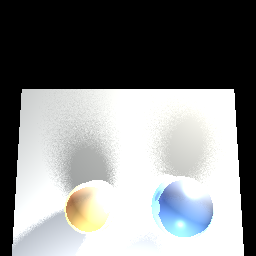
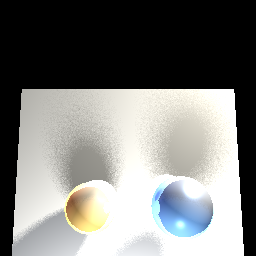
Added c++ materal shader logic to main func

diff --git a/cpp_src/main.cpp b/cpp_src/main.cpp
@@ -111,8 +111,10 @@ int main()
 
 	// Create shader programs
 	Shader litShaderProgram("lit.vert", "lit.frag");
-	Shader modelProgram("material_lit.vert", "material_lit.frag");
+	Shader materialProgram("material_lit.vert", "material_lit.frag");
 	Shader unlitShaderProgram("unlit.vert", "unlit.frag");
+
+	Material roughtMat(Color("#2cc20eff").toVec3(), 0.0f, 0.52f, 0.0f, 0.0f, 0.0f, Color("#000").toVec3());
 
 	std::vector<Vertex> floorVerts(vertices, vertices + sizeof(vertices) / sizeof(vertices[0]));
 	std::vector<GLuint> floorInd(indices, indices + sizeof(indices) / sizeof(indices[0]));
@@ -170,8 +172,12 @@ int main()
 	litShaderProgram.setFloat("u_specularStrength", 1.0f);
 	litShaderProgram.setFloat("u_ambient", 0.05f);
 
-	modelProgram.Activate();
-	camera.SetModelMatrixUniform(modelProgram, "u_camMatrix");
+	materialProgram.Activate();
+	CreateLightsUBO();
+	CreateMaterialUBO();
+	UpdateLightsUBO(std::vector<Light>{ Light{lightPos, lightColor.toVec3(), 1.0f} });
+	UpdateMaterialUBO(roughtMat);
+	camera.SetModelMatrixUniform(materialProgram, "u_camMatrix");
 	litShaderProgram.setVec3("u_viewDir", camera.Forward);
 
 	unlitShaderProgram.Activate();
@@ -190,16 +196,18 @@ int main()
 		camera.SetModelMatrixUniform(litShaderProgram, "u_camMatrix");
 		litShaderProgram.setVec3("u_viewPos", camera.Position);
 		
-		modelProgram.Activate();
-		camera.SetModelMatrixUniform(modelProgram, "u_camMatrix");
+		materialProgram.Activate();
+		UpdateLightsUBO(std::vector<Light>{ Light{lightPos, lightColor.toVec3(), 1.0f} });
+		UpdateMaterialUBO(roughtMat);
+		camera.SetModelMatrixUniform(materialProgram, "u_camMatrix");
 		litShaderProgram.setVec3("u_viewDir", camera.Forward);
 
 		unlitShaderProgram.Activate();
 		camera.SetModelMatrixUniform(unlitShaderProgram, "u_camMatrix");
-		
+
 		// Draw objects
 		floorMesh.Draw(litShaderProgram, camera);
-		bunny->Draw(litShaderProgram, camera);
+		bunny->Draw(materialProgram, camera);
 		sword->Draw(litShaderProgram, camera);
 		lightMesh.Draw(unlitShaderProgram, camera);
 	}));
@@ -508,7 +516,7 @@ int main()
 		
 	// Clean up and exit
 	litShaderProgram.Delete();
-	modelProgram.Delete();
+	materialProgram.Delete();
 	unlitShaderProgram.Delete();
 	
 	floorMesh.CleanUp();

diff --git a/cpp_src/include/Material.h b/cpp_src/include/Material.h
@@ -28,6 +28,16 @@ struct Material: public IVirtualObject {
     glm::vec3 emissive = glm::vec3(0.0f);
     float     padding3 = 0.0f;
 
+    Material(const glm::vec3& albedoColor, float metal, float rough, float useAlbedo,
+             float useNormal, float useMR, const glm::vec3& emissiveColor)
+        : albedo(albedoColor), metallic(metal), roughness(rough),
+          useAlbedoMap(useAlbedo), useNormalMap(useNormal), useMRMap(useMR),
+          emissive(emissiveColor) {}
+
     json ToJSON() const override;
     void FromJSON(const json& j) override;
+    void CleanUp() override;
 };
+
+void CreateMaterialUBO();
+void UpdateMaterialUBO(const Material& mat);

diff --git a/cpp_src/include/Light.h b/cpp_src/include/Light.h
@@ -29,9 +29,12 @@ struct Light: public IVirtualObject {
     int       type; // 0=point,1=dir,2=spot
 
     Light() : position(0.0f), coneAngles(.01f), color(1.0f), intensity(1.0f), type(0) {}
+    Light(const glm::vec3& pos, const glm::vec3& col, float inten, int t = 0)
+        : position(pos), radius(1.0f), coneAngles(.01f), color(col), intensity(inten), direction(0.0f, -1.0f, 0.0f), type(t) {}
 
     json ToJSON() const override;
     void FromJSON(const json& j) override;
+    void CleanUp() override;
 };
 
 void CreateLightsUBO();

diff --git a/cpp_src/src/Material.cpp b/cpp_src/src/Material.cpp
@@ -46,3 +46,9 @@ void UpdateMaterialUBO(const Material& mat)
     glBufferSubData(GL_UNIFORM_BUFFER, 0, sizeof(GPUMaterial), &data);
     glBindBuffer(GL_UNIFORM_BUFFER, 0);
 }
+
+// Nothing to free per-Material right now; satisfies the linker
+void Material::CleanUp()
+{
+    // No per-instance GL resources allocated here
+}

diff --git a/cpp_src/src/Light.cpp b/cpp_src/src/Light.cpp
@@ -64,3 +64,8 @@ void UpdateLightsUBO(const std::vector<Light>& lights)
 
     glBindBuffer(GL_UNIFORM_BUFFER, 0);
 }
+// Nothing to free per-Light right now; satisfies the linker
+void Light::CleanUp()
+{
+    // No per-instance GL resources allocated here
+}
